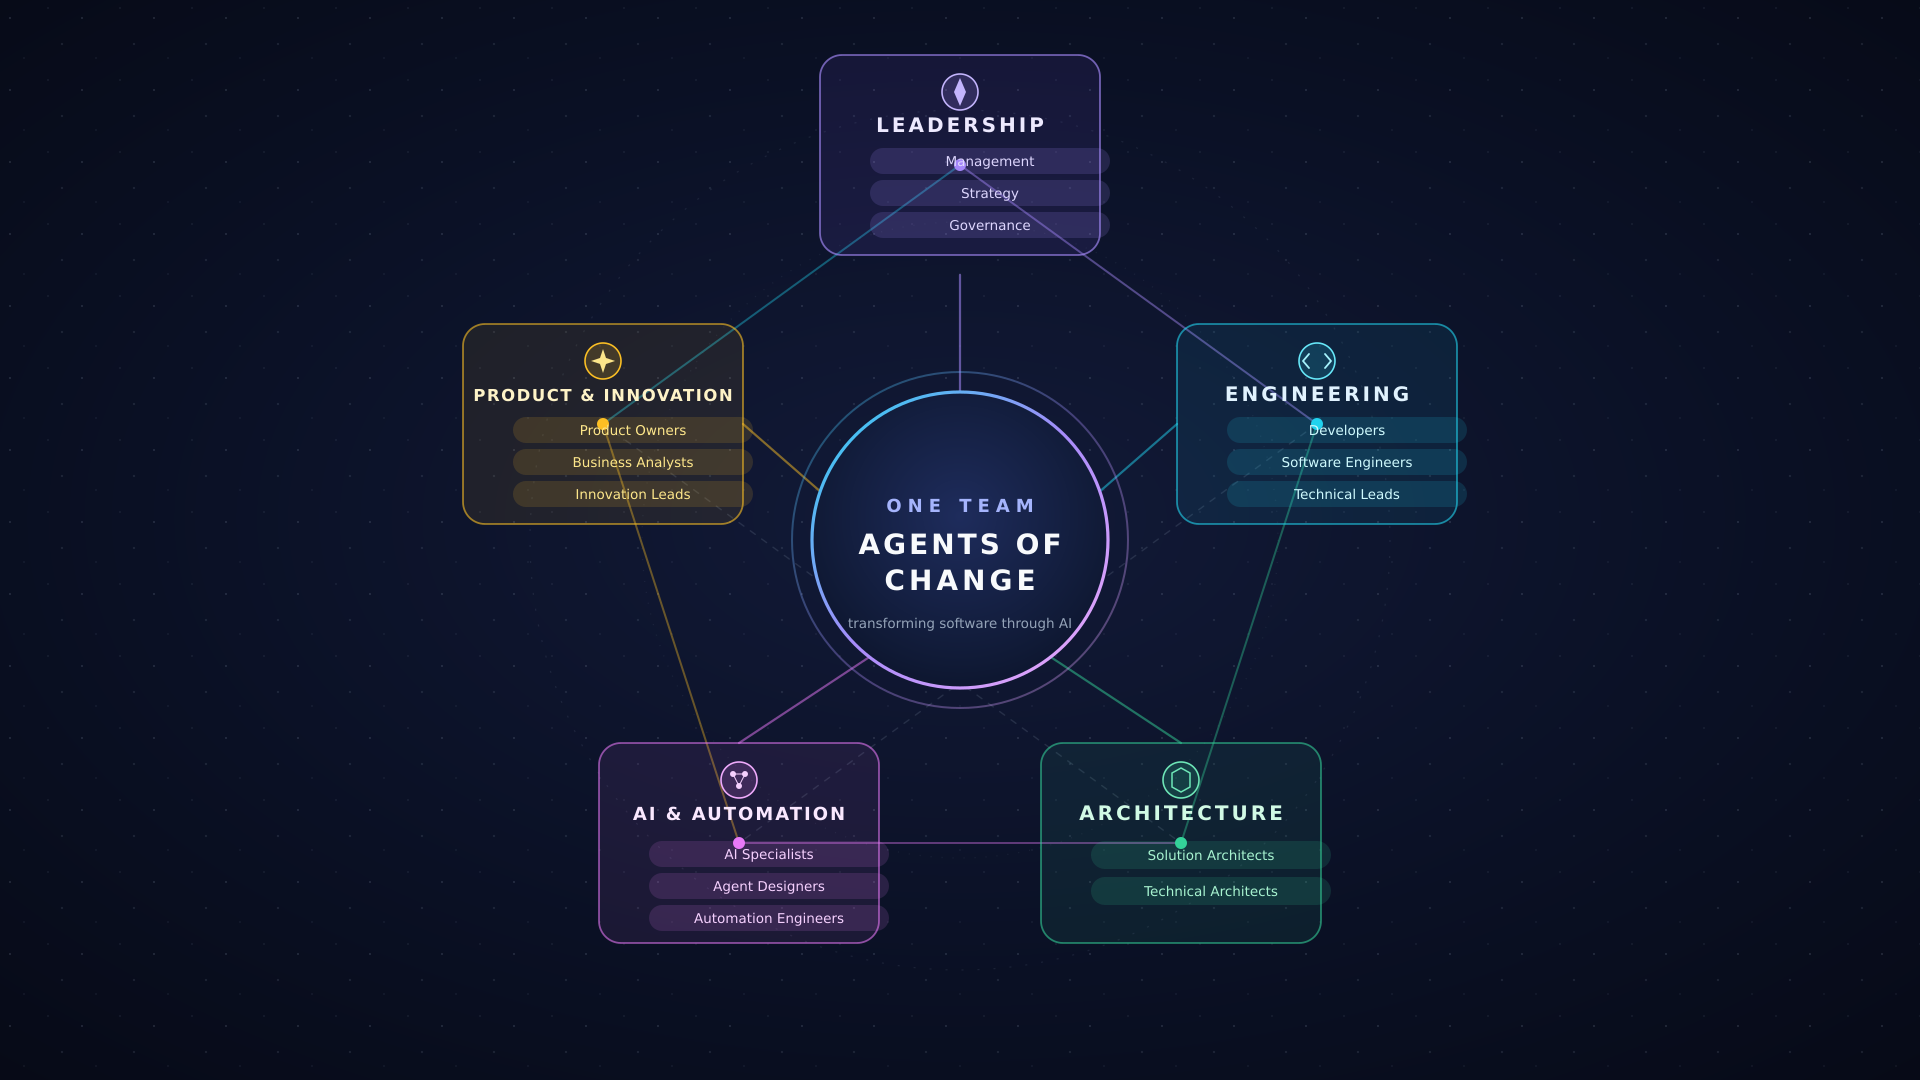
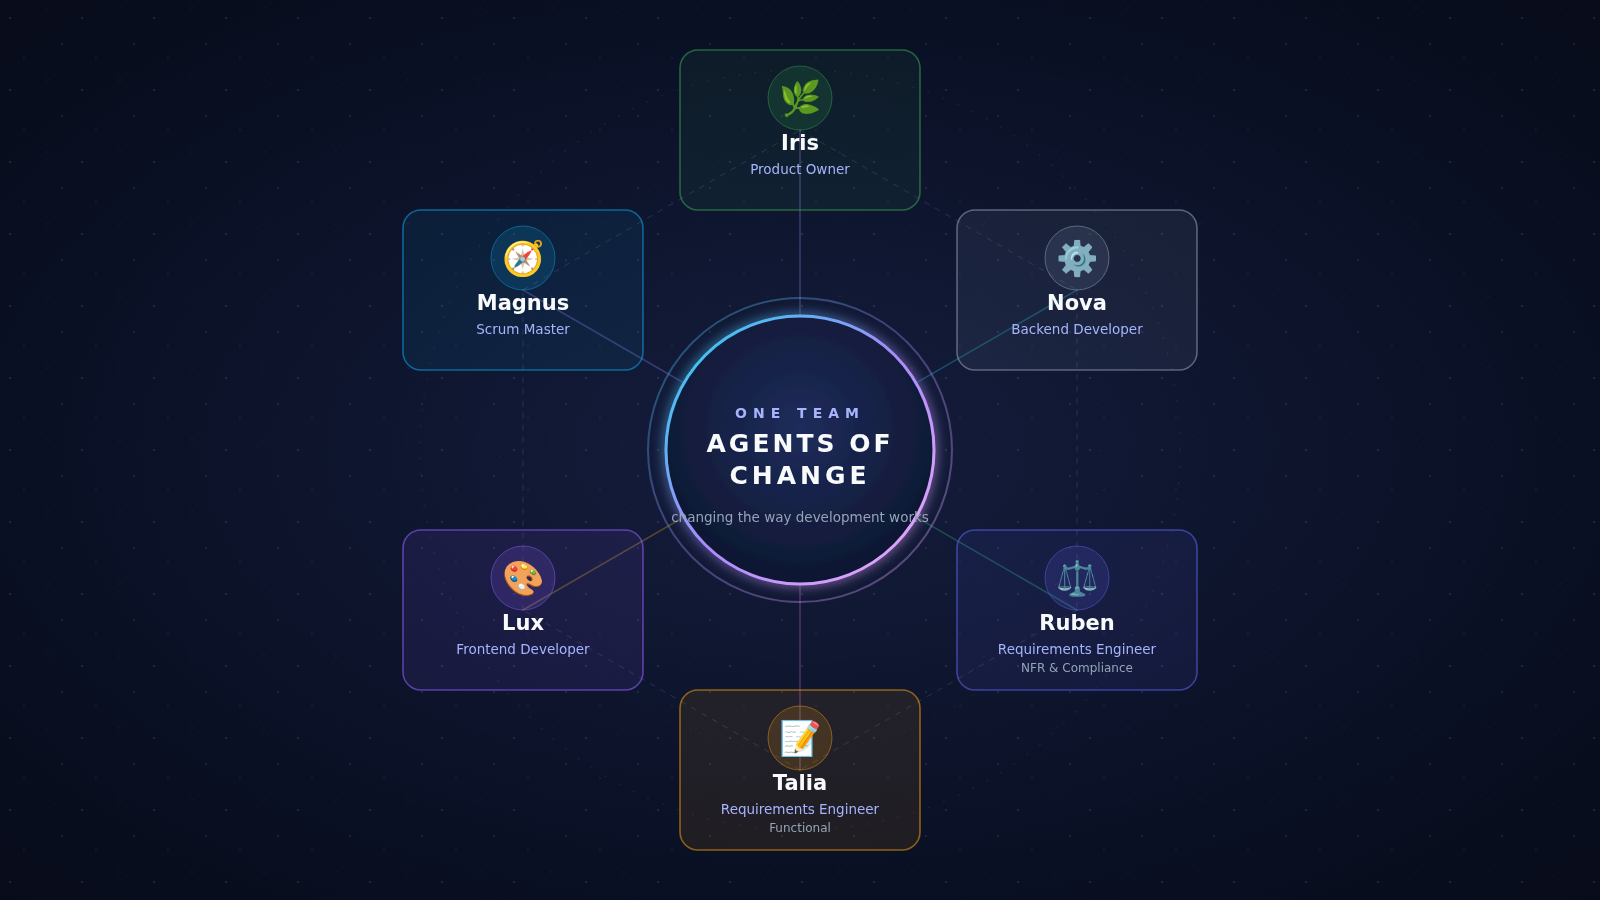
Reflect core team members in org profile diagram and add mission goal
- Replace abstract domain ecosystem with constellation of the six core team members (Iris, Magnus, Nova, Lux, Talia, Ruben)
- Remove 'What we're building' section
- Add goal: changing the way development works

diff --git a/profile/README.md b/profile/README.md
@@ -1,13 +1,13 @@
 # Agents of Change
 
-A small, self-organizing Scrum team. We build focused, dependable web tools — fast on slow connections, accessible to everyone, and easy to maintain as they grow.
+We're changing the way software is built — a self-organizing team of expert engineers and autonomous AI agents working as one, rethinking how development gets done.
 
-## What we're building
+## Our goal
 
-**[TinyLink / TinyURL](https://github.com/theagentsofchange/TinyURL)** — our internal URL shortener. Paste a long URL, get a short link that redirects. No login, no analytics beyond click counts.
+To change the way development works: pairing expert engineers with AI agents so we deliver faster, higher-quality software that's accessible to everyone and built to grow — not just building tools, but transforming how they're made.
 
 ## The team
 
-One collaborative group, not a hierarchy — leadership, product, engineering, architecture, and AI working as a single constellation.
+One collaborative group, not a hierarchy — leadership, product, engineering, and requirements working as a single constellation.
 
 ![Agents of Change — team constellation](team-constellation.png)
